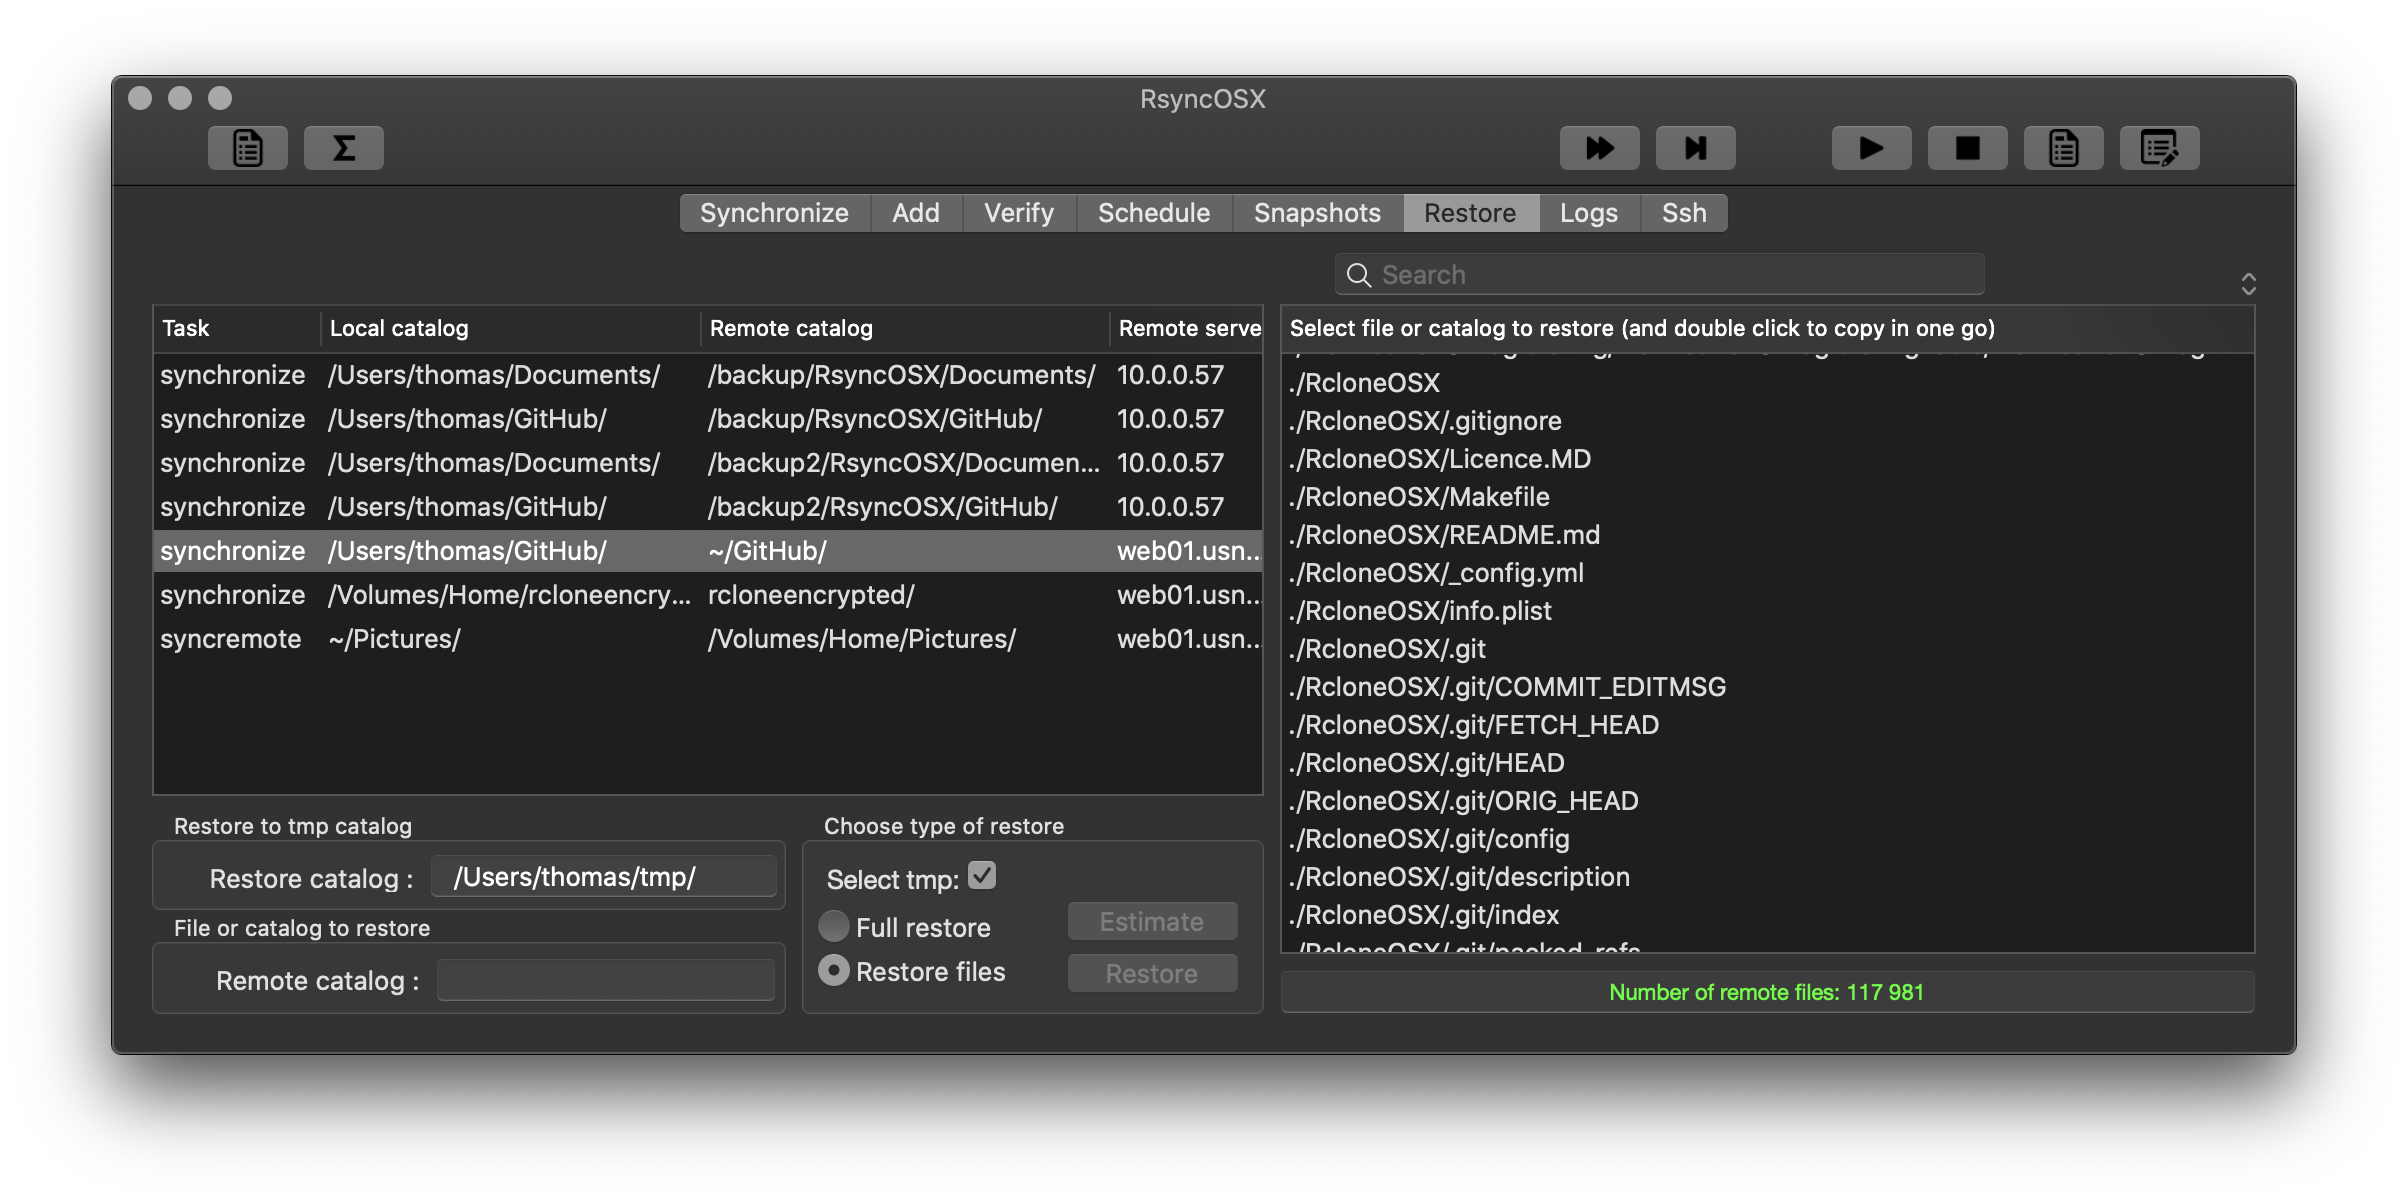
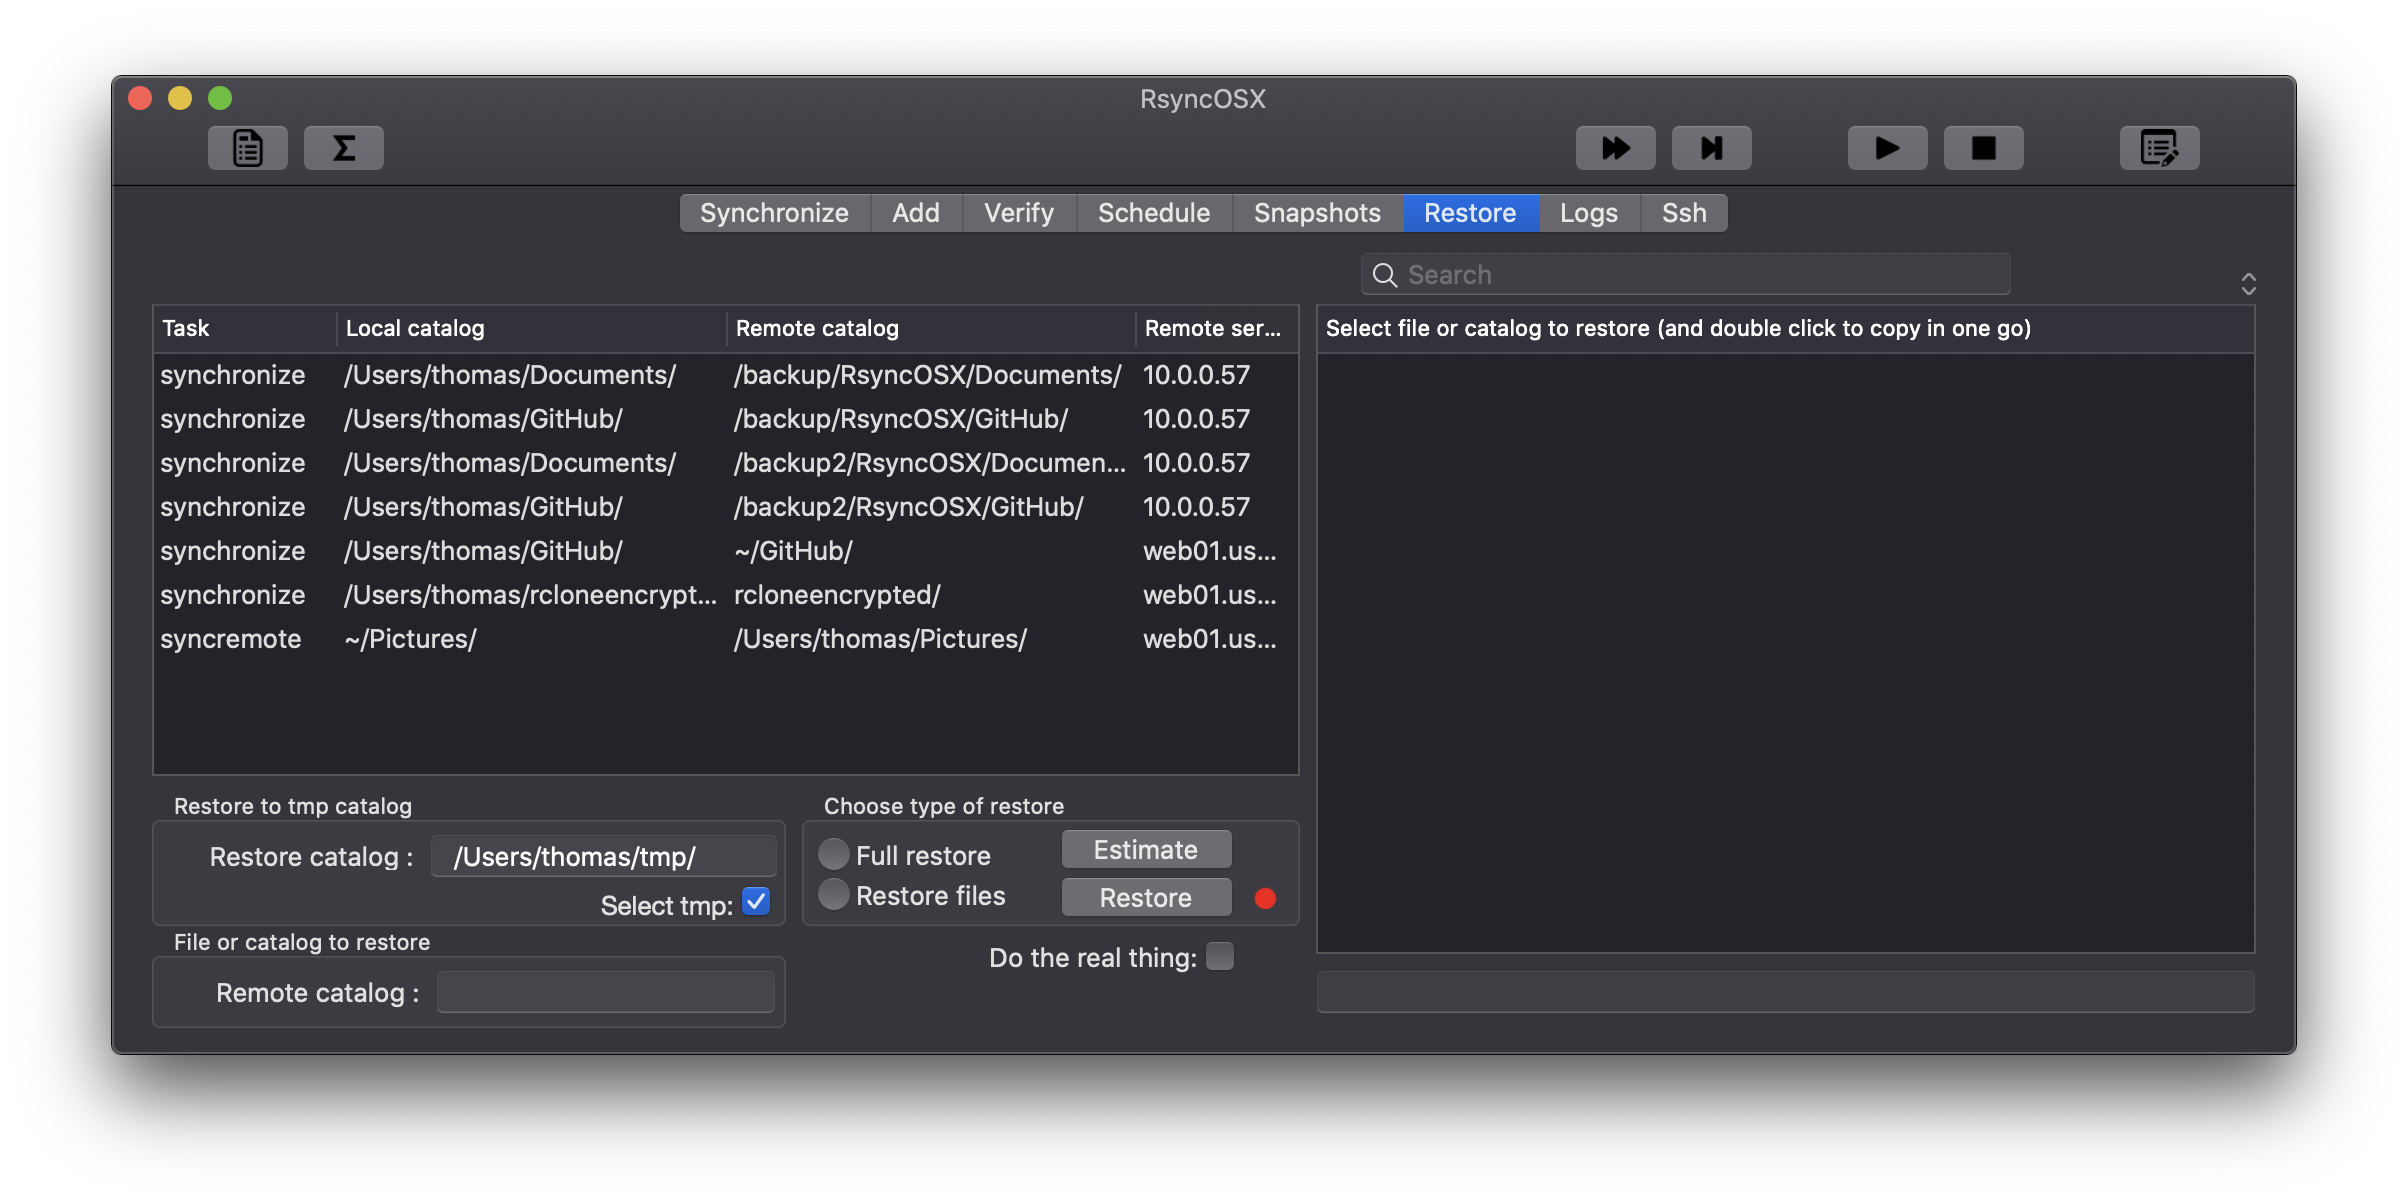
update

diff --git a/_posts/2018-04-10-Restore.md b/_posts/2018-04-10-Restore.md
@@ -9,7 +9,8 @@ There are two types of restore files:
 - Restore files
   - if the remote (destination) is a snapshot the file list might be huge, depends upon how many snapshots and how many files in a snapshot
   - any file from any snapshot might be restored
-
-Only full restore are allowed to source catalog, but default restore for both Full restore and Restore files is a temporary catalog.
-
+Only full restore is allowed from remote (destination) catalog to source catalog. But the default restore for both Full restore and Restore files are to a temporary catalog.
 ![](/images/RsyncOSX/master/restore/restore.png)
+To do a restore, either full or files, an estimation is required. The status light changes from red to yellow when an estimation can be executed. The status light is green when a restore can be executed.
+The button `Do the real thing:` must be checked before a restore is executed. If not only a simulation message is shown.
+![](/images/RsyncOSX/master/restore/restore2.png)

diff --git a/_posts/2018-04-10-Quickbackup.md b/_posts/2018-04-10-Quickbackup.md
@@ -4,13 +4,8 @@ title:  "Execute tasks in Quickbackup"
 permalink: Quickbackup
 ---
 There are two options for executing quick synchronize tasks, either estimate and select or execute directly. In either way RsyncOSX does an estimation run and the numbers to indicate the progress of synchronizing.
-
 - execute synchronizing task directly
 - do an estimate first and select
-
-![](/images/RsyncOSX/master/quickbackup/menu4.png)
-![](/images/RsyncOSX/master/quickbackup/menu2.png)
-
 The quickbackup executes a estimation run and selects all tasks with files to be synchronized. To commence the actual synchronizing select the marked play button.
 ![](/images/RsyncOSX/master/quickbackup/quickbackup1.png)
 ![](/images/RsyncOSX/master/quickbackup/quickbackup2.png)
